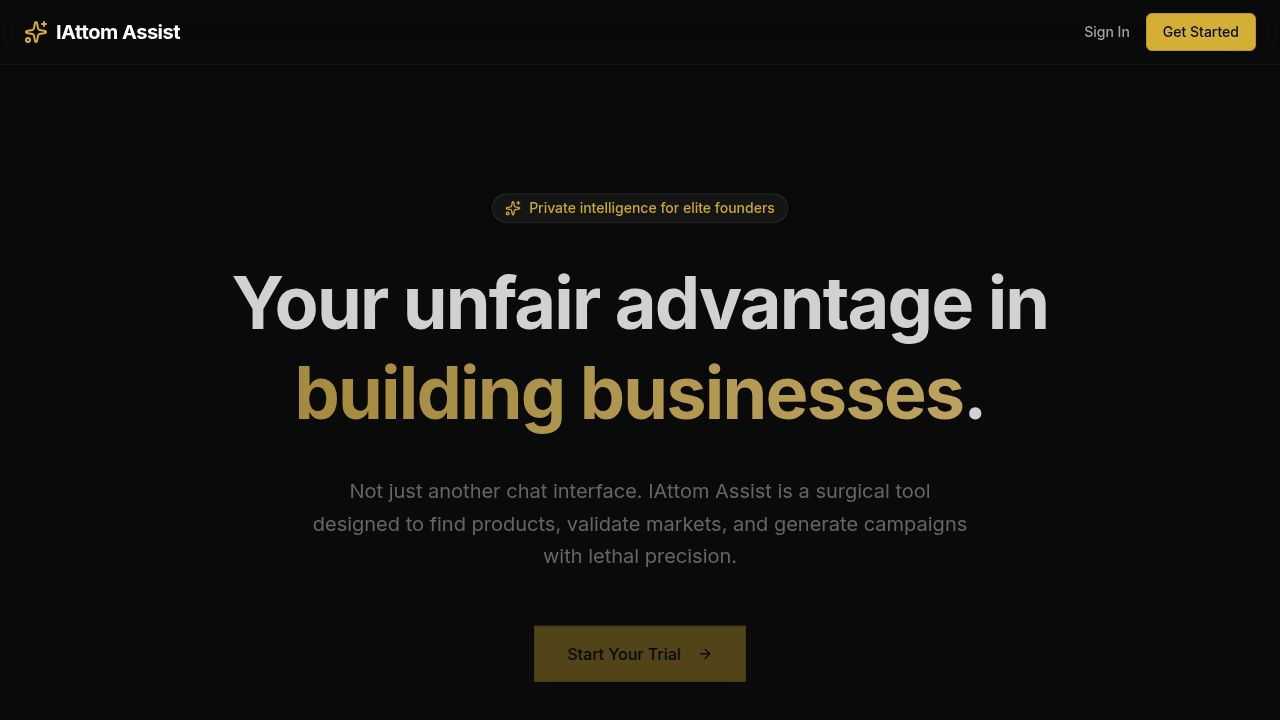
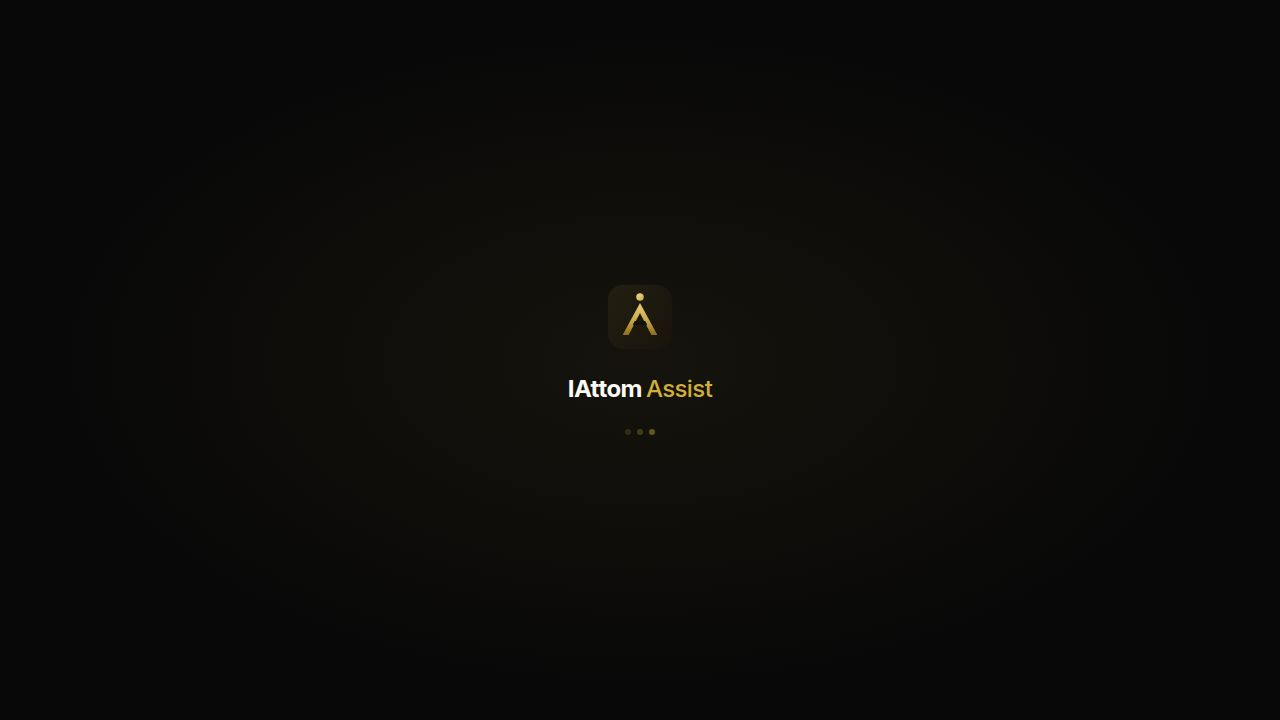
Update user sync to display correct credit balance
Invalidate credits balance query after user sync to ensure the correct credit amount is displayed immediately upon login.

Replit-Commit-Author: Agent
Replit-Commit-Session-Id: 65bea954-9c13-4a09-9588-6c6701fe535f
Replit-Commit-Checkpoint-Type: full_checkpoint
Replit-Commit-Event-Id: 2c9b3154-7a30-4c57-abde-81c76f06833a
Replit-Commit-Screenshot-Url: https://storage.googleapis.com/screenshot-production-us-central1/b2aad966-45bd-447e-8c24-10682a501111/65bea954-9c13-4a09-9588-6c6701fe535f/c8FFg4d
Replit-Helium-Checkpoint-Created: true

diff --git a/artifacts/iattom-assist/src/components/layout/SidebarLayout.tsx b/artifacts/iattom-assist/src/components/layout/SidebarLayout.tsx
@@ -57,8 +57,9 @@ export function SidebarLayout({ children }: { children: React.ReactNode }) {
   const syncUser = useSyncUser({
     mutation: {
       onSuccess: () => {
-        // Invalidate me query so BetaGate re-evaluates access after sync creates/claims the user.
+        // Invalidate both me and credits so the sidebar reflects real balance immediately after claim/sync.
         void qc.invalidateQueries({ queryKey: getGetMeQueryKey() });
+        void qc.invalidateQueries({ queryKey: getGetCreditsBalanceQueryKey() });
       },
     },
   });